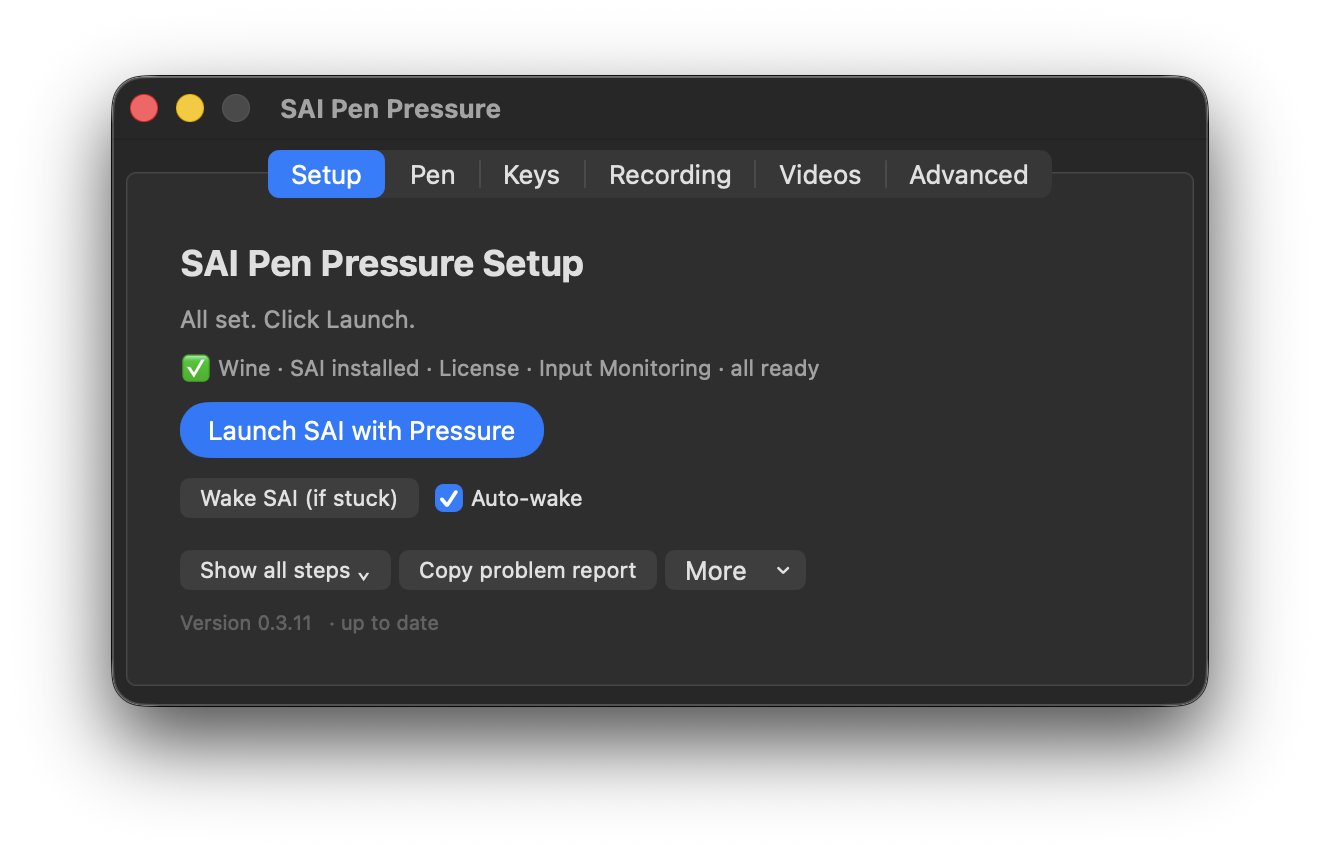
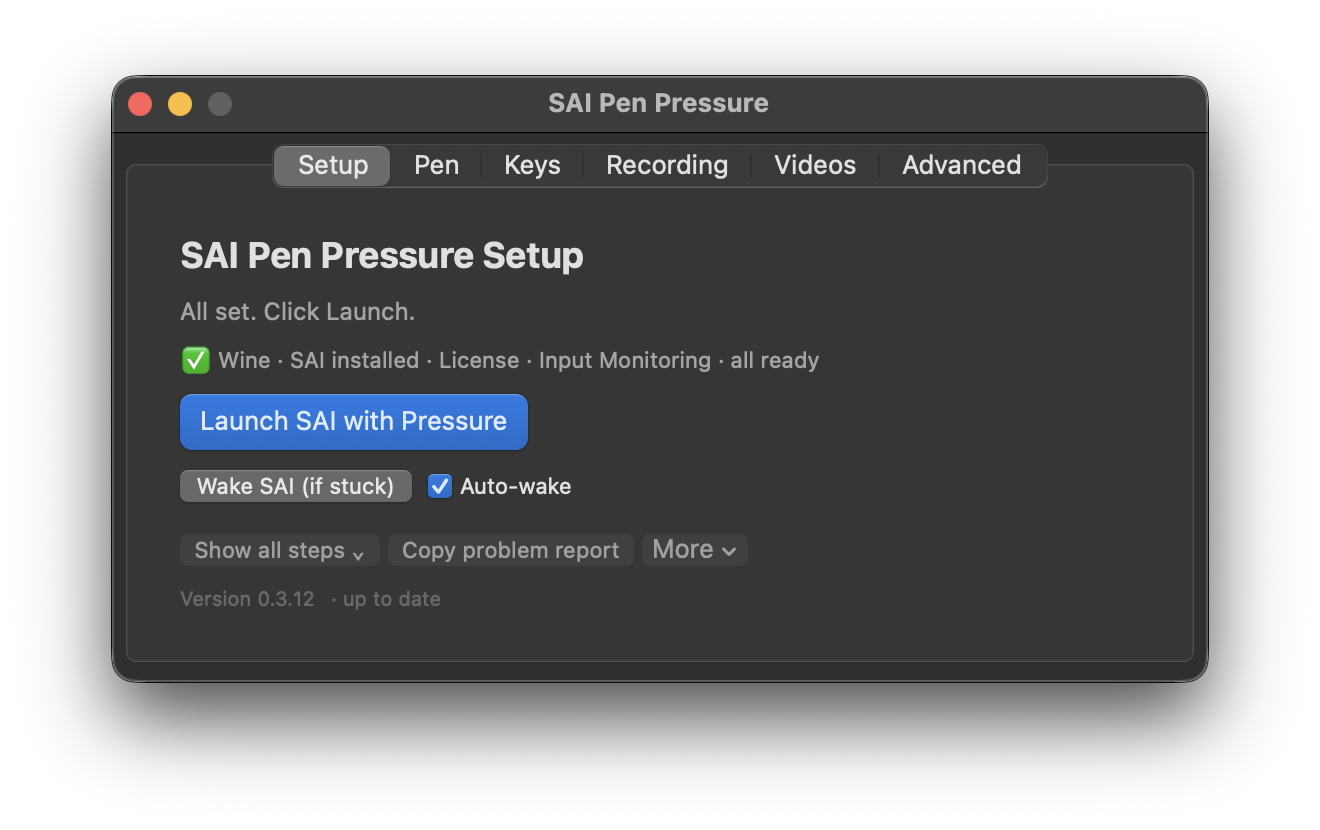
README: Setup and Advanced screenshots for 0.3.12
Advanced now shows the Language menu and the font path; Setup shows
0.3.12. The six-tab grid is rebuilt with both, same layout and scale.

diff --git a/README.md b/README.md
@@ -24,7 +24,7 @@ canvas** while you draw. Free and open source.
 Six tabs, one window.
 
 <p align="center">
-  <a href="docs/assets/screenshots/all-tabs.png"><img src="docs/assets/screenshots/all-tabs.png" alt="All six tabs side by side. Top row: Setup, with Launch and Wake SAI; Pen, with pressure levels, pen feel presets, the curve and two more feel sliders, and a live test; Keys, with what each Option and Command key sends. Bottom row: Recording, with the timelapse switch and save folder; Videos, one video per drawing; Advanced, with developer mode, automatic updates, sharp text on Retina screens and the Wine in use." width="100%"></a>
+  <a href="docs/assets/screenshots/all-tabs.png"><img src="docs/assets/screenshots/all-tabs.png" alt="All six tabs side by side. Top row: Setup, with Launch and Wake SAI; Pen, with pressure levels, pen feel presets, the curve and two more feel sliders, and a live test; Keys, with what each Option and Command key sends. Bottom row: Recording, with the timelapse switch and save folder; Videos, one video per drawing; Advanced, with developer mode, automatic updates, sharp text on Retina screens, the Language menu with the font in use, and the Wine in use." width="100%"></a>
 </p>
 <p align="center"><sub>Full size:
   <a href="docs/assets/screenshots/setup.png">Setup</a> ·
